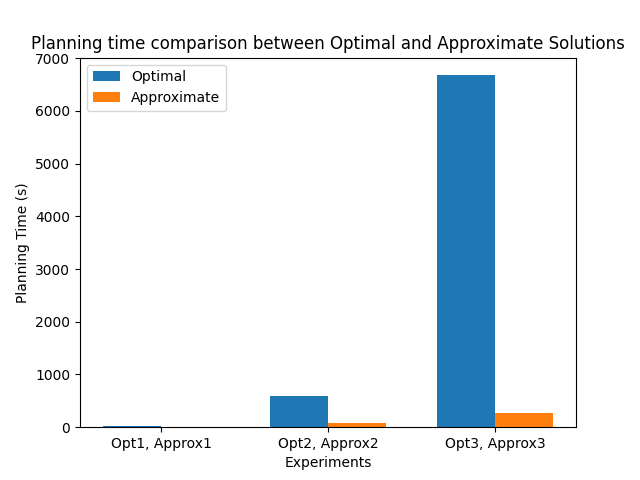
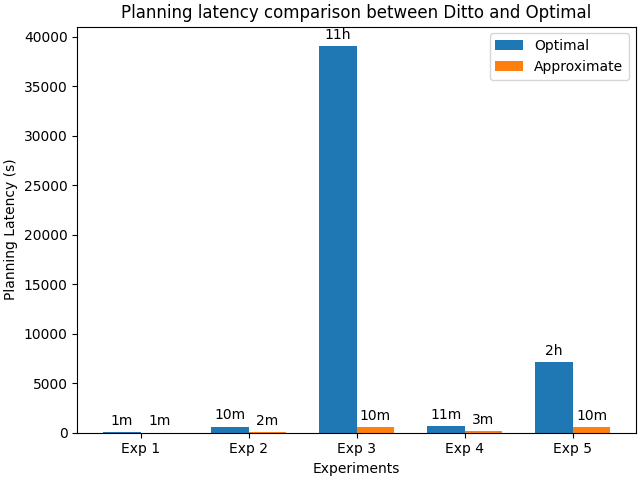
Updated drawing scripts

Changed region(s): [[0.0, 0.0, 1.0, 1.0], [0.0312, 0.6562, 0.125, 0.7188], [0.0312, 0.75, 0.125, 0.8125]]

diff --git a/script/planning_time_analysis.py b/script/planning_time_analysis.py
@@ -1,9 +1,10 @@
 import matplotlib.pyplot as plt
 import numpy as np
+import math
 
 # Sample data: Replace these lists with your actual runtime data
-runtimes_optimal = [25.505810260772705, 599.8481931686401, 6676.652161359787]
-runtimes_approx = [2.6304068565368652, 86.63370537757874, 270.3531458377838]
+runtimes_optimal = [25.505810260772705, 599.8481931686401, 39104.35719227791, 630.139664888382, 7084.061190366745]
+runtimes_approx = [2.6304068565368652, 86.63370537757874, 559.2081208229065, 121.43609380722046, 546.0477550029755]
 
 # Number of experiments
 n = len(runtimes_optimal)
@@ -12,7 +13,7 @@ n = len(runtimes_optimal)
 fig, ax = plt.subplots(layout="constrained")
 
 # Index for groups
-ind = np.arange(n)  
+ind = np.arange(n)
 
 # The width of the bars
 width = 0.35       
@@ -23,15 +24,27 @@ approx_bars = ax.bar(ind + width/2, runtimes_approx, width, label='Approximate')
 
 # Adding labels, title and custom x-axis tick labels, etc.
 ax.set_xlabel('Experiments')
-ax.set_ylabel('Planning Time (s)', font_size=10)
-ax.set_title('Planning time comparison between Optimal and Approximate Solutions')
+ax.set_ylabel('Planning Latency (s)')
+ax.set_title('Planning latency comparison between Ditto and Optimal')
 ax.set_xticks(ind)
-ax.set_xticklabels([f'Opt{i+1}, Approx{i+1}' for i in range(n)])
-ax.legend(font_size=10)
+ax.set_xticklabels([f'Exp {i+1}' for i in range(n)])
+ax.legend()
 
-# Adjust layout to prevent clipping of ylabel
-plt.tight_layout()
+# Label with bar heights formatted as minutes or hours
+def format_time(seconds):
+    if seconds >= 3600:
+        return f'{math.ceil(seconds / 3600)}h'  # Hours
+    else:
+        return f'{math.ceil(seconds / 60)}m'  # Minutes
 
-# Adding some text for labels, title and custom x-axis tick labels, etc.
+for bar in optimal_bars + approx_bars:
+    height = bar.get_height()
+    time_label = format_time(height)
+    ax.annotate(time_label,
+                xy=(bar.get_x() + bar.get_width() / 2, height),
+                xytext=(0, 3),  # 3 points vertical offset
+                textcoords="offset points",
+                ha='center', va='bottom')
+
 plt.show()
 plt.savefig('planning_time_comparison.png')

diff --git a/script/accuracy_analysis.py b/script/accuracy_analysis.py
@@ -1,9 +1,13 @@
 import matplotlib.pyplot as plt
 import numpy as np
 
-# Sample data: Replace these lists with your actual runtime data
-runtimes_optimal = [100488.554588, 52810.885161, 39272.289252]
-runtimes_approx = [101468.183774, 54894.842745, 48348.336041]
+# Sample data: Converted from milliseconds to seconds
+runtimes_optimal = [100488.554588, 52810.885161, 33138.643266, 31506.181207, 31989.985589]
+runtimes_approx = [101468.183774, 54894.842745, 34023.693034, 32673.192131, 34559.451579]
+
+# Convert milliseconds to seconds
+runtimes_optimal = [x / 1000 for x in runtimes_optimal]
+runtimes_approx = [x / 1000 for x in runtimes_approx]
 
 # Number of experiments
 n = len(runtimes_optimal)
@@ -12,7 +16,7 @@ n = len(runtimes_optimal)
 fig, ax = plt.subplots(layout="constrained")
 
 # Index for groups
-ind = np.arange(n)  
+ind = np.arange(n)
 
 # The width of the bars
 width = 0.35       
@@ -23,12 +27,20 @@ approx_bars = ax.bar(ind + width/2, runtimes_approx, width, label='Approximate')
 
 # Adding labels, title and custom x-axis tick labels, etc.
 ax.set_xlabel('Experiments')
-ax.set_ylabel('Template Execution Time (s)')
-ax.set_title('Template execution time comparison between Optimal and Approximate Solutions')
+ax.set_ylabel('Iteration Time (s)')
+ax.set_title('Iteration time comparison between Ditto and Optimal')
 ax.set_xticks(ind)
-ax.set_xticklabels([f'Opt{i+1}, Approx{i+1}' for i in range(n)])
+ax.set_xticklabels([f'Exp {i+1}' for i in range(n)])
 ax.legend()
 
-# Adding some text for labels, title and custom x-axis tick labels, etc.
+# Label with bar heights
+for bar in optimal_bars + approx_bars:
+    height = bar.get_height()
+    ax.annotate(f'{height:.1f}s',
+                xy=(bar.get_x() + bar.get_width() / 2, height),
+                xytext=(0, 3),  # 3 points vertical offset
+                textcoords="offset points",
+                ha='center', va='bottom')
+
 plt.show()
-plt.savefig('accuracy_comparison.png')
+plt.savefig('execution_time_comparison.png')
